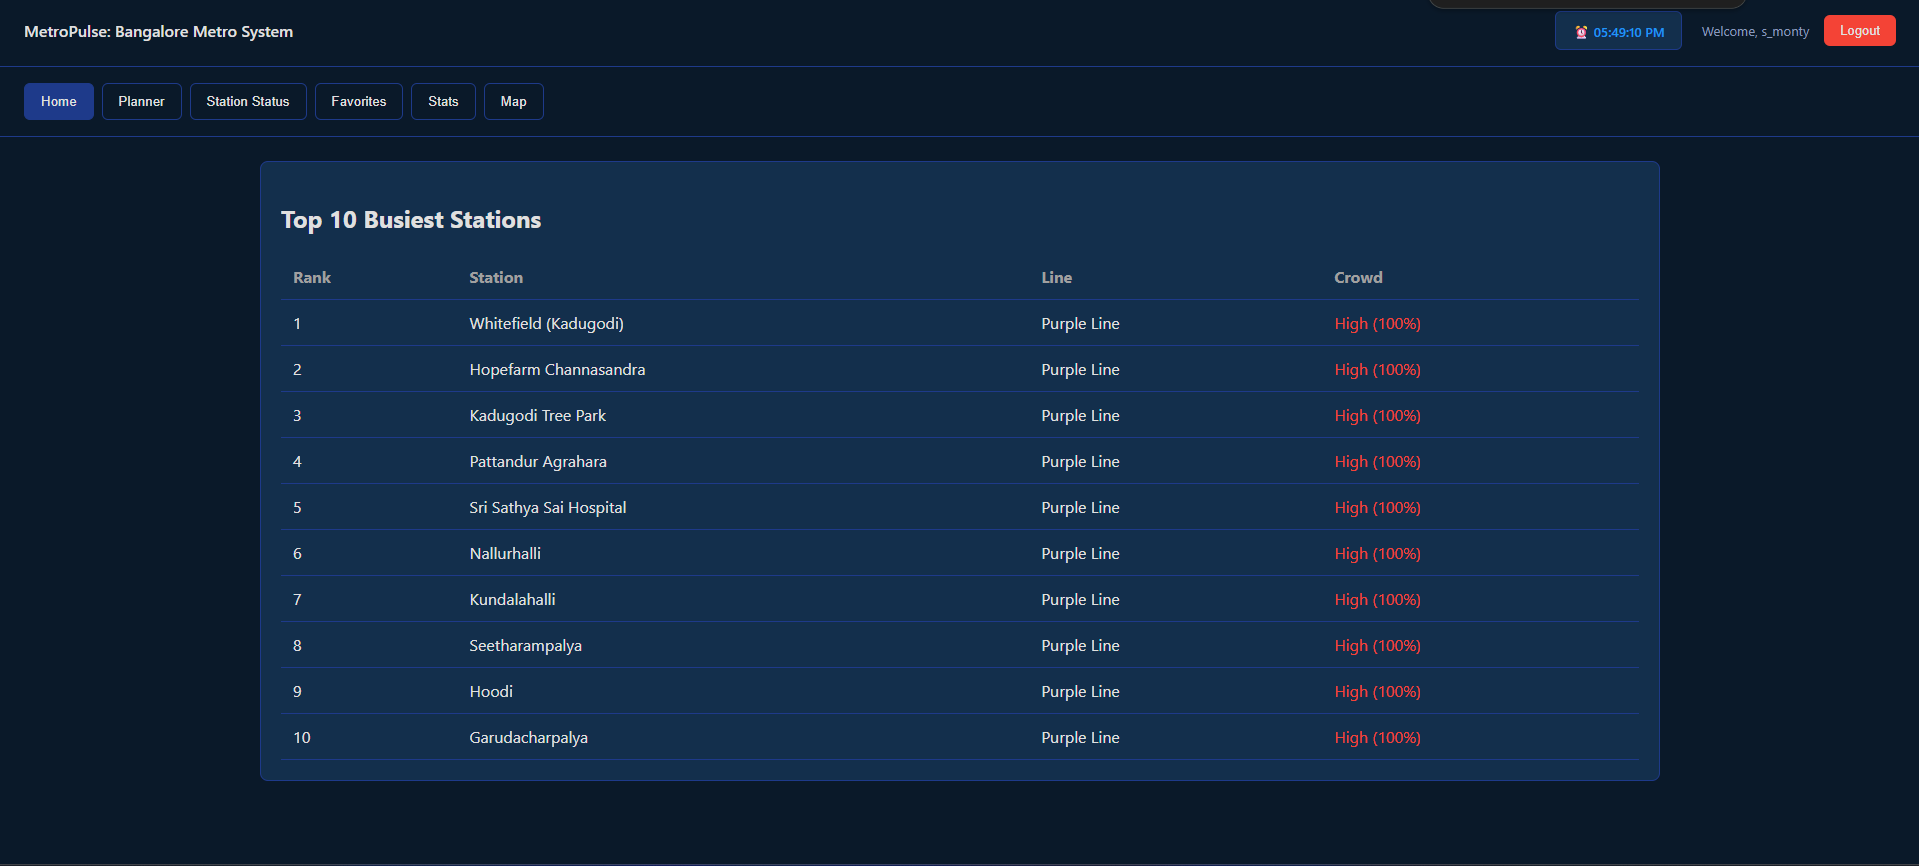
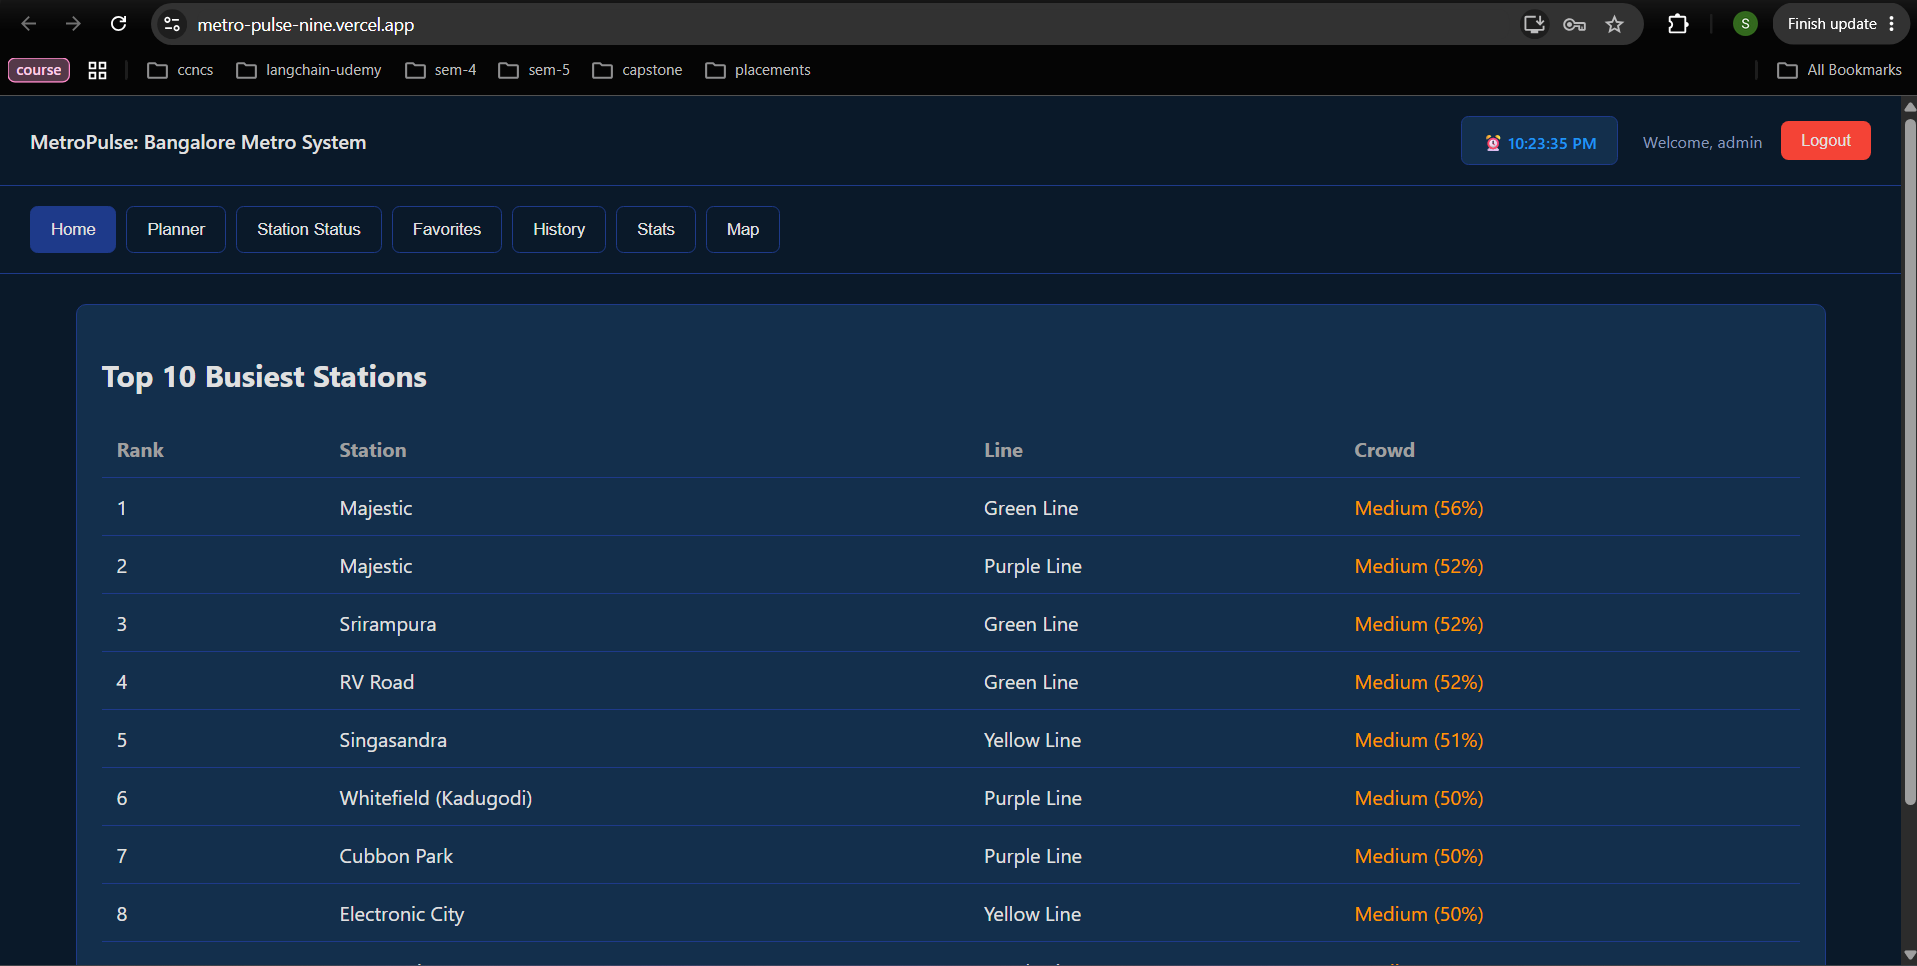
Updated final readme with deployed website, new features and screenshots

diff --git a/README.md b/README.md
@@ -1,6 +1,15 @@
 # Metro Pulse
 
-Metro Pulse is a web application that analyzes metro station traffic and delays to give commuters a clearer picture of congestion levels and travel conditions across the metro network.
+Metro Pulse is a full-stack web app for the Bangalore (Namma) Metro. Plan a
+journey across the Purple, Green, and Yellow lines with real interchange
+guidance and fares, check live station crowding, and track your ride history
+and spending over time.
+
+**Live demo → [metro-pulse-nine.vercel.app](https://metro-pulse-nine.vercel.app)**
+
+> The demo runs on free hosting that sleeps when idle, so the first load after a
+> quiet period can take 30–50 seconds while the backend wakes up. It is quick
+> after that.
 
 ---
 
@@ -25,20 +34,29 @@ Metro Pulse is a web application that analyzes metro station traffic and delays 
 
 ## About
 
-Metro commutes are unpredictable — delays, overcrowded platforms, and no reliable way to plan ahead. Metro Pulse is built to fix that. It collects and visualizes traffic and delay data for metro stations, so commuters can check conditions before they leave and make smarter decisions about when and how to travel.
+Metro Pulse answers the questions every commute raises - which line to take,
+where to change, what it will cost, and how crowded it will be. The journey
+planner walks the real network and tells you exactly where to switch lines, the
+fare for the trip, and how busy the stations are at your chosen time. Once you
+are travelling, log each trip to build up a ride history and a spending
+breakdown by week, month, or year.
 
 ---
 
 ## Screenshots
 
-**Home — Top 10 Busiest Stations**
+**Home - Top 10 Busiest Stations**
 ![Home Dashboard](screenshots/home.png)
 
 **Journey Planner**
-![Journey Planner](screenshots/planner.png)
+![Journey Planner](screenshots/planner_1.png)
 
-> Predates the searchable station picker and the leg-by-leg route breakdown —
-> to be refreshed.
+![Route Breakdown for user convenience](screenshots/planner_2.png)
+
+**User History/Budget Analyser**
+![Ride History and Spending](screenshots/history_1.png)
+
+![All Trip Log](screenshots/history_2.png)
 
 **Station Status by Line**
 ![Station Status](screenshots/station-status.png)
@@ -52,27 +70,23 @@ Metro commutes are unpredictable — delays, overcrowded platforms, and no relia
 **Register**
 ![Register](screenshots/register.png)
 
-<!-- TODO: add screenshots/history.png once deployed -->
-
-**Ride History and Spending** — _screenshot to be added._
-
 ---
 
 ## Features
 
 - Live traffic dashboard showing congestion levels across all stations
-- Journey planner that walks the real network — shows which line to board,
+- Journey planner that walks the real network - shows which line to board,
   where to change, and how many stops each leg takes
 - Searchable station picker: type to filter all 85 stations, with each result
   labelled by line so the interchanges (Majestic, RV Road) can be told apart
 - Fares derived from the fixed path, so every station pair has one set price
-- Explicit **Log Journey** action — checking a route does not record it, so
+- Explicit **Log Journey** action - checking a route does not record it, so
   history and spending only reflect trips actually taken
 - Ride history and spending, filterable by last week, month, 6 months, or year
 - Station status filtered by metro line (Purple, Green, Yellow)
 - Save and manage favorite routes per user account
 - Statistics page with hourly crowd charts and weekly delay trends
-- User authentication — register, login, and logout
+- User authentication - register, login, and logout
 - Responsive design that works on both desktop and mobile
 
 ---
@@ -126,10 +140,13 @@ Metro-Pulse/
 │       └── App.js
 │
 ├── screenshots/
-├── render.yaml               backend deployment blueprint
+├── render.yaml               backend deployment blueprint (Render)
+├── LICENSE
 ├── .gitignore
 └── README.md
 ```
+
+> `frontend/vercel.json` holds the frontend deployment config (Vercel).
 
 ---
 
@@ -139,7 +156,7 @@ Metro-Pulse/
 
 - [Node.js](https://nodejs.org/) v16 or above
 - npm or yarn
-- [MongoDB](https://www.mongodb.com/) — local or via [MongoDB Atlas](https://www.mongodb.com/cloud/atlas)
+- [MongoDB](https://www.mongodb.com/) - local or via [MongoDB Atlas](https://www.mongodb.com/cloud/atlas)
 
 ---
 
@@ -197,7 +214,7 @@ missing, rather than silently falling back to localhost or a guessable key.
 | `REACT_APP_API_URL` | Backend base URL including `/api` |
 
 > Write this file as UTF-8. PowerShell's `>` operator produces UTF-16, which
-> the build silently ignores — the app then falls back to the hardcoded
+> the build silently ignores - the app then falls back to the hardcoded
 > localhost URL and breaks in production. Use `Set-Content -Encoding utf8`.
 
 Neither `.env` is committed; both are covered by `.gitignore`.
@@ -274,18 +291,21 @@ curl "http://localhost:5000/api/routes/plan?from=PL01&to=YL16"
 ```
 
 **Fares.** Because the path is fixed, so is the station count, and therefore the
-fare — one set price per station pair. The slab table lives in
+fare - one set price per station pair. The slab table lives in
 [`backend/config/fares.js`](backend/config/fares.js), along with a
 `FARE_OVERRIDES` map for pairs where BMRCL's published price differs from the
 slab. **The committed slabs are not yet verified against BMRCL's official
-chart** — check <http://fare.bmrc.co.in/> and correct them before relying on
+chart** - check <http://fare.bmrc.co.in/> and correct them before relying on
 the numbers.
 
 ---
 
 ## Deployment
 
-Frontend on Vercel, backend on Render, database on MongoDB Atlas.
+Frontend on Vercel, backend on Render, database on MongoDB Atlas - this is how
+the [live demo](https://metro-pulse-nine.vercel.app) is hosted, and the steps
+below reproduce it from a fork. All three have free tiers that need no card to
+start.
 
 ### 1. MongoDB Atlas
 
@@ -295,7 +315,7 @@ Frontend on Vercel, backend on Render, database on MongoDB Atlas.
 3. **Network Access** -> add `0.0.0.0/0`. Render's free tier has no static
    outbound IP, so narrower rules will block the API. This does mean the cluster
    is reachable from any IP, so the database password is the only thing
-   protecting it — use a long generated one and never commit it.
+   protecting it - use a long generated one and never commit it.
 4. **Connect -> Drivers -> Node.js** and copy the connection string. Replace
    `<password>` with the real password and add the database name:
 
@@ -303,7 +323,7 @@ Frontend on Vercel, backend on Render, database on MongoDB Atlas.
    mongodb+srv://user:PASSWORD@cluster0.xxxxx.mongodb.net/metropulse?retryWrites=true&w=majority
    ```
 
-Point `backend/.env` at it and start the backend once — it seeds all 85
+Point `backend/.env` at it and start the backend once - it seeds all 85
 stations automatically on first connect.
 
 ### 2. Backend on Render
@@ -333,7 +353,7 @@ variable:
 |---|---|
 | `REACT_APP_API_URL` | `https://your-service.onrender.com/api` |
 
-Note the `/api` suffix — the frontend appends paths directly to this value.
+Note the `/api` suffix - the frontend appends paths directly to this value.
 
 ### 4. Connect the two
 
@@ -348,7 +368,7 @@ It accepts a comma-separated list if you want preview deployments allowed too.
 Redeploy the backend after changing it.
 
 > `REACT_APP_*` values are compiled into the JavaScript bundle at build time, so
-> anyone who loads the site can read them. Only put public values there — never
+> anyone who loads the site can read them. Only put public values there - never
 > the Atlas string or the JWT secret.
 
 ---
@@ -358,9 +378,9 @@ Redeploy the backend after changing it.
 Pull requests are welcome. If you want to work on something significant, open an issue first so we can discuss the approach.
 
 1. Fork the repo
-2. Create your branch — `git checkout -b feature/your-feature`
-3. Commit your changes — `git commit -m 'Add your feature'`
-4. Push — `git push origin feature/your-feature`
+2. Create your branch - `git checkout -b feature/your-feature`
+3. Commit your changes - `git commit -m 'Add your feature'`
+4. Push - `git push origin feature/your-feature`
 5. Open a pull request
 
 ---
